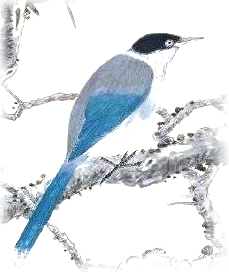
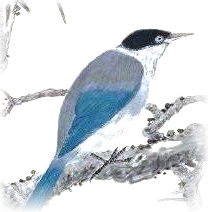
Party page: cleaner sprig and less branch clutter
The letter card's plum is now a slender red-plum sprig cut from the
newly provided painting (watermark areas avoided), and the perched
magpie is re-cropped to shed most of the gnarled branch mass.

Claude-Session: https://claude.ai/code/session_01Bq6k3CqRwnBqpPfz6dYZV2

diff --git a/party/index.html b/party/index.html
@@ -100,7 +100,7 @@ section{padding:72px 30px;text-align:center}
 .el{position:absolute;pointer-events:none;opacity:0.72;mix-blend-mode:multiply}
 .el-pair{top:14px;right:20px;width:86px}
 .el-fly{top:38px;left:20px;width:76px}
-.el-blossom{top:-58px;left:2px;width:92px}
+.el-blossom{top:-44px;left:2px;width:118px}
 .el-peach{top:-66px;right:8px;width:94px}
 .el-shiliu{top:-56px;right:10px;width:94px}
 .el-perch{display:block;margin:0 auto 10px;width:58px;opacity:0.78;mix-blend-mode:multiply}
@@ -300,7 +300,7 @@ footer .mini-seal{color:var(--red);font-size:1.15rem;display:block;margin-bottom
 <section id="letter" class="reveal">
   <div class="letter-card">
     <div class="wm">囍</div>
-    <img class="el el-blossom" src="img/el_meizhi.png" alt="">
+    <img class="el el-blossom" src="img/el_redplum.png" alt="">
     <p class="letter-txt">
       小女陸明 與 宋昇昱<br>
       已於二〇二六年十月三日<br>
